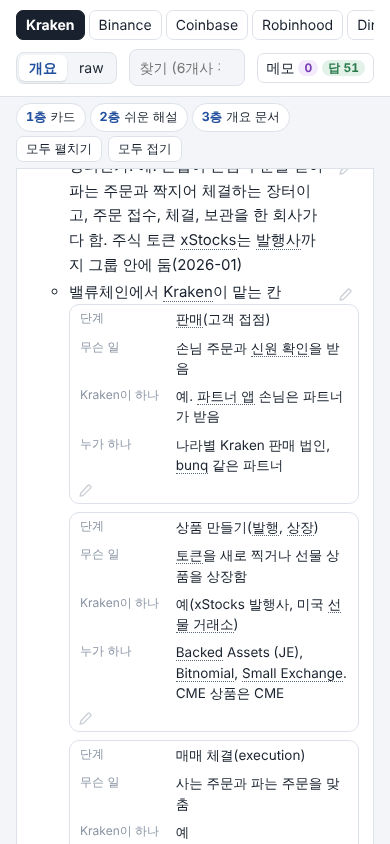
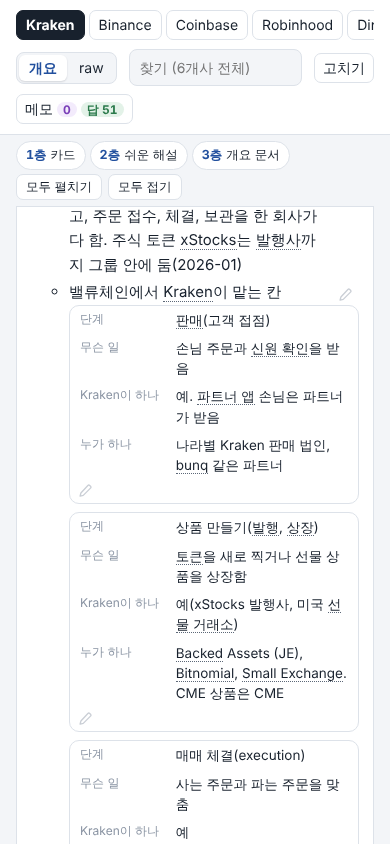
Kraken 1층 질문 답 강조와 보강(판매 행, 배울 점 지움). 게시(버전 49)
Claude-Session: https://claude.ai/code/session_01Y2xPtV1wgTiFHBjrPP61tm

diff --git a/playbook/lessons_log.md b/playbook/lessons_log.md
@@ -58,3 +58,8 @@
 - 피드백: "PM No 60 같은 PM언급 죄다 빼기", "표 보기 어려움, 엑셀처럼 너비 조절", "내용을 내가 직접 수정 삭제"
 - 바꾼 것: 1층 카드(Robinhood, Ondo)와 Robinhood 2층에서 질문 번호 표시와 "PM 답/정리/판단" 문구를 뺌(형광펜과 빨간 글자는 남김). 표 머리 칸 오른쪽 끝을 끌어 너비 조절(두 번 누르면 되돌림, 브라우저에 기억). 머리의 "고치기"를 켜고 줄이나 표 칸을 누르면 고치기, 지우기, 원래대로. 고친 것은 공유 저장소 edits 모음과 브라우저에 남고 "고친 곳 내려받기"(csv)로 받음
 - 다음 작업 전에: ArtifactData로 edits 모음을 읽어 원본 파일(kb/*_overview, kb/easy 등)에 반영할지 사용자에게 확인
+
+### L34 (2026-11-18) 질문별 답 문서로 카드 보강, 판매 행, 배울 점 지움
+- 피드백: 회사별 질문과 리서치 답 문서(Kraken, Coinbase)를 주며 "내용을 바꾸지 말고 핵심과 질문에 답되는 부분을 강조, 답 안 되는 것 보강". 판매 행은 회사가 직접 파는 것만(남이 파는 걸 회사가 파는 것처럼 쓰지 않음). "kdx가 배울점 란 다 없애줘"
+- 바꾼 것: 1층 카드에 형광펜과 짧은 답 줄(Kraken 새 줄 89, Coinbase 75), 판매 행을 "누가 누구에게 파나"로, 모든 회사 1층과 3층의 배울 점 절을 지움. 회사별 질문 문서는 inputs/pm_261118에 둠
+- 남은 판단: 카드와 문서가 어긋나는데 정정 표시가 없는 날짜(Kraken 장외 데스크 2018-09 대 2016 등)는 사용자에게 물음
